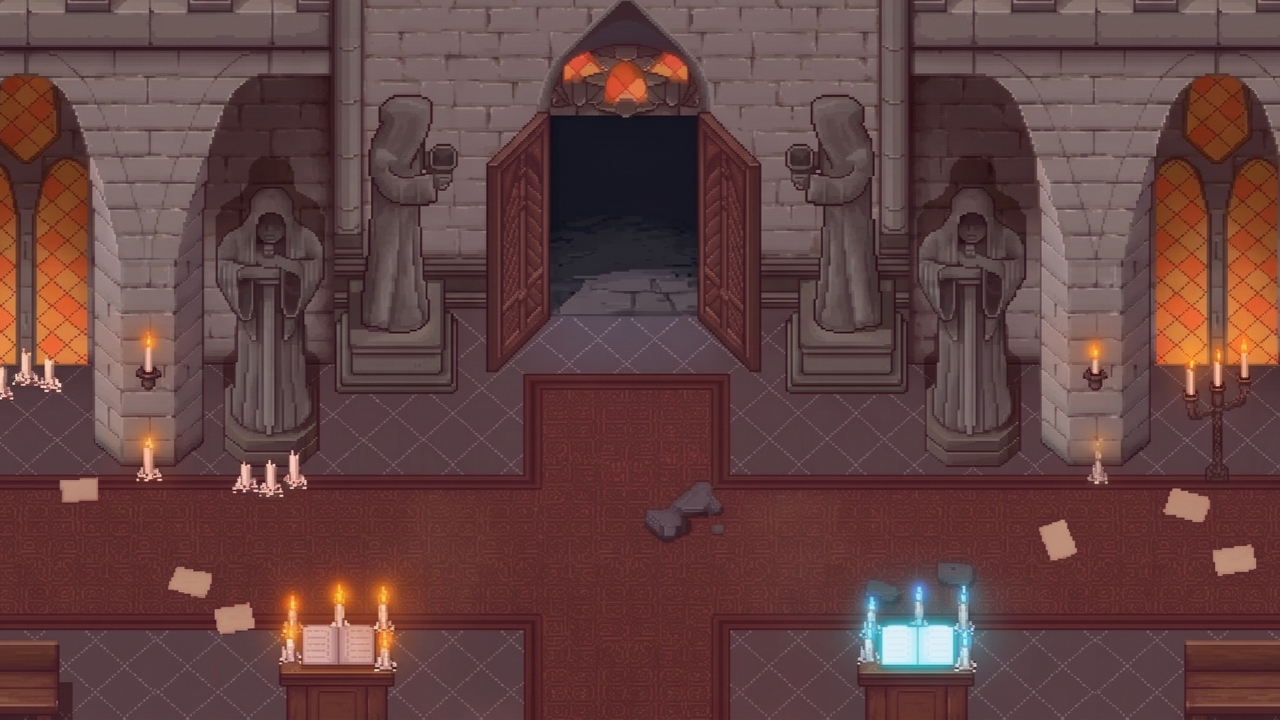
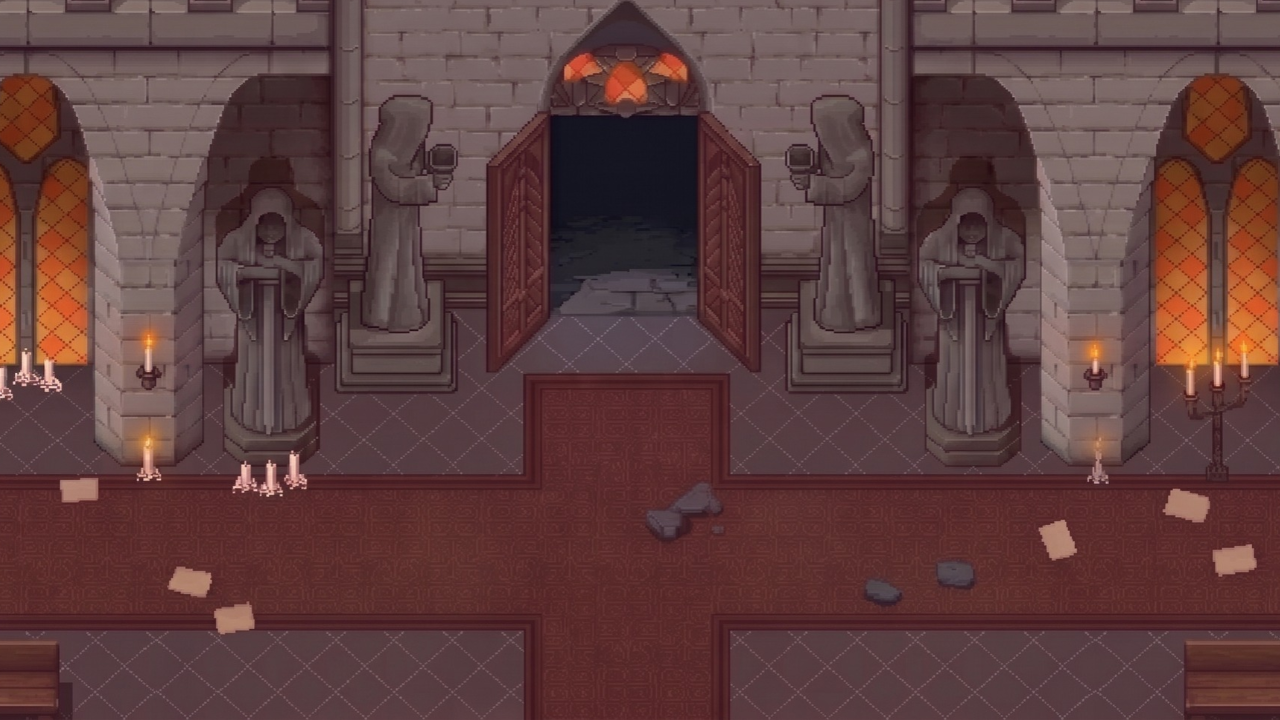
Added rough hitboxes.

diff --git a/main.py b/main.py
@@ -9,6 +9,19 @@ screen = pygame.display.set_mode((1280, 720))
 clock = pygame.time.Clock()
 running = True
 
+##### Obstacle Hitbox Testing
+Hitbox1 = pygame.Rect(0, 0, 326, 476)
+Hitbox2 = pygame.Rect(326, 0, 194, 393)
+Hitbox3 = pygame.Rect(726, 0, 194, 393)
+Hitbox4 = pygame.Rect(920, 0, 359, 476)
+Hitbox5 = pygame.Rect(0, 638, 64, 81)
+Hitbox6 = pygame.Rect(1183, 638, 98, 81)
+##### Cut scene hitbox
+Hitbox7 = pygame.Rect(520, 0, 206, 318)
+Hitbox8 = pygame.Rect(0, 476, 32, 162)
+Hitbox9 = pygame.Rect(1248, 476, 32, 162)
+
+
 # Create game objects
 hero = Hero("assets/entities/hero/Hero.png", 100, 100, 3, 100)
 background = Background("assets/background/Entrance.png")
@@ -36,6 +49,17 @@ while running:
     # RENDER YOUR GAME HERE
     for obj in game_objects:
         obj.draw(screen)
+
+    ######## Test draw
+    pygame.draw.rect(screen, "green", Hitbox1, 2)
+    pygame.draw.rect(screen, "green", Hitbox2, 2)
+    pygame.draw.rect(screen, "green", Hitbox3, 2)
+    pygame.draw.rect(screen, "green", Hitbox4, 2)
+    pygame.draw.rect(screen, "green", Hitbox5, 2)
+    pygame.draw.rect(screen, "green", Hitbox6, 2)
+    pygame.draw.rect(screen, "yellow", Hitbox7, 2)
+    pygame.draw.rect(screen, "yellow", Hitbox8, 2)
+    pygame.draw.rect(screen, "yellow", Hitbox9, 2)
 
     # flip() the display to put your work on screen
     pygame.display.flip()

diff --git a/render/hero.py b/render/hero.py
@@ -4,6 +4,7 @@ from .entity import Entity
 
 class Hero(Entity):
     def __init__(self, image_path, start_x, start_y, speed, health):
+        self.hitbox = pygame.Rect(start_x, start_y, 60, 40)
         super().__init__(image_path, start_x, start_y, speed, health)
 
     # Move
@@ -16,3 +17,4 @@ class Hero(Entity):
             self.rect.x -= self._speed  # Left
         if keys[pygame.K_d]:
             self.rect.x += self._speed  # Right
+        self.hitbox.center =  (self.rect.x + 100, self.rect.y + 140)

diff --git a/render/entity.py b/render/entity.py
@@ -40,4 +40,8 @@ class Entity(GameObject):
 
     def draw(self, screen):
         screen.blit(self.image, self.rect)
+
+        # Temporary hit box
+        pygame.draw.rect(screen, "blue", self.rect, 2)
+        pygame.draw.rect(screen, "red", self.hitbox, 2)
     
